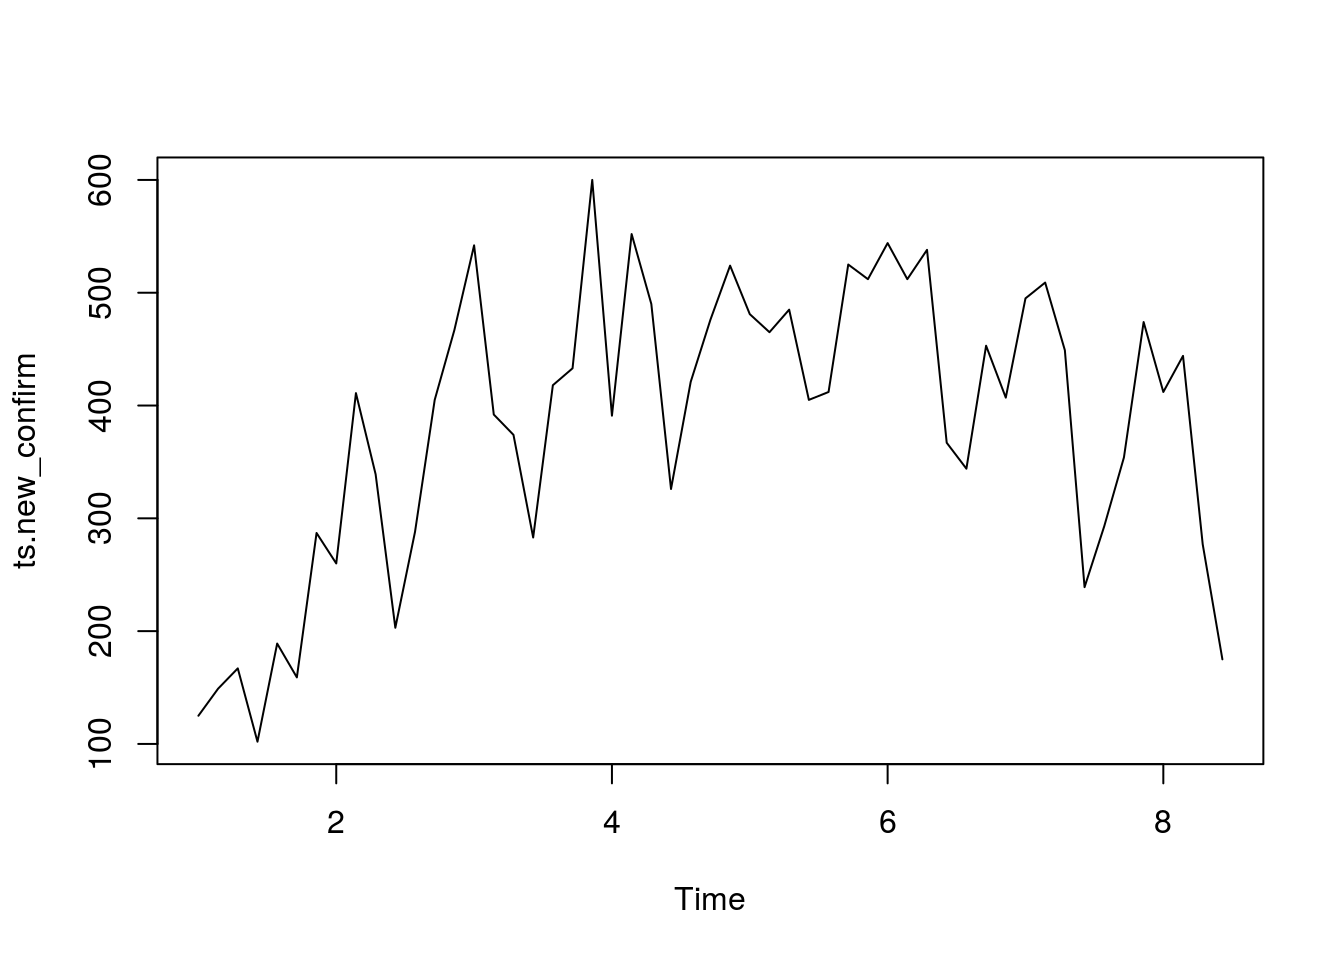
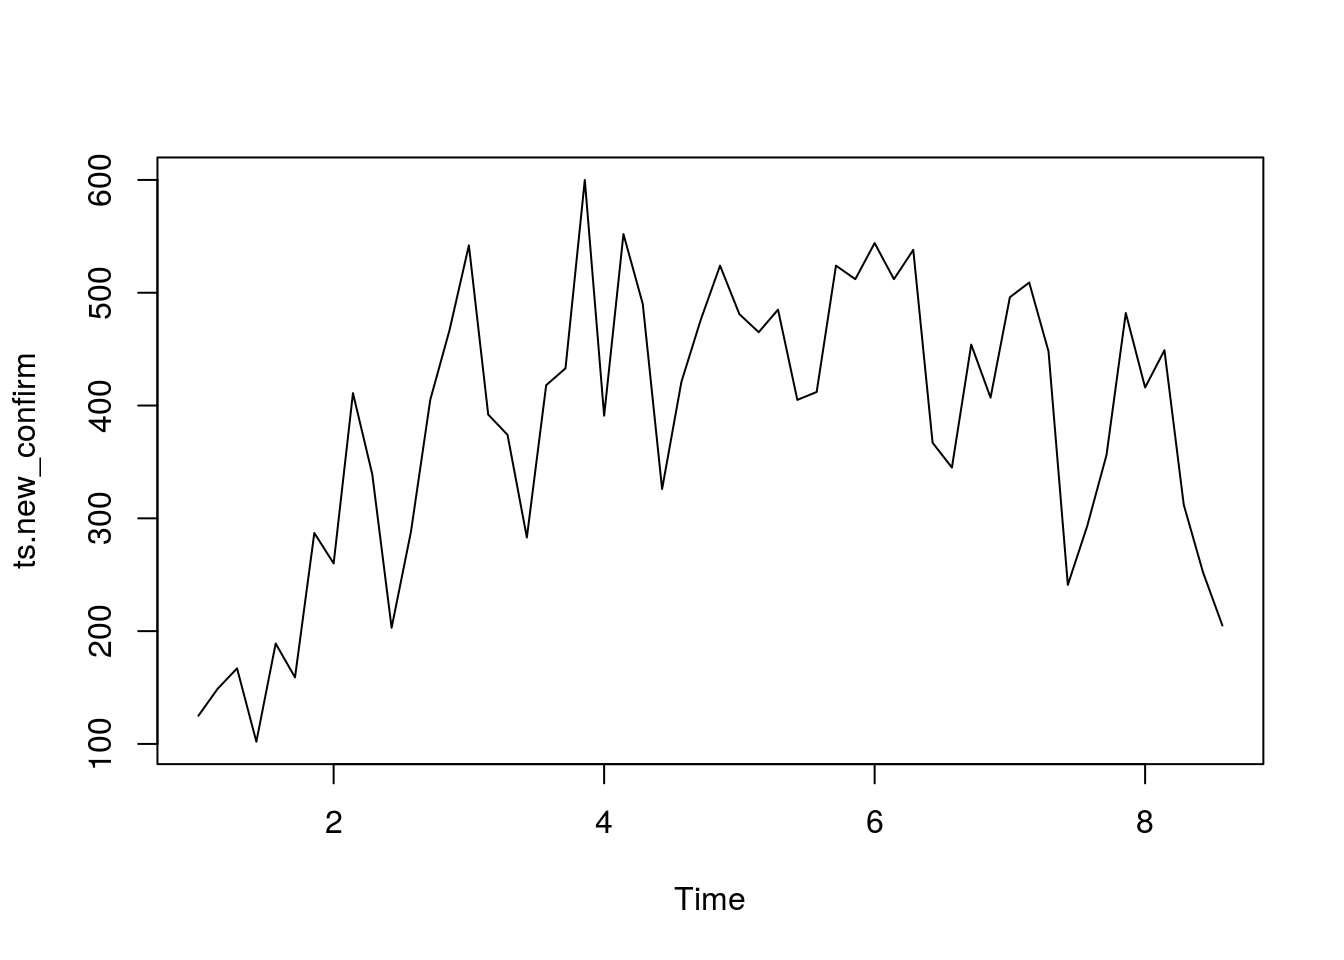
оновлено дані та виправлено одрук в даті випадку в Одеській області

diff --git a/docs/regions_dyn.md b/docs/regions_dyn.md
@@ -51,13 +51,13 @@ area_dyn <- read_csv('../covid19_by_area_type_hosp_dynamics.csv')
     ##   new_recover = col_double()
     ## )
 
-    ## Warning: 82 parsing failures.
+    ## Warning: 86 parsing failures.
     ##  row              col               expected  actual                                        file
-    ## 1381 legal_entity_lat no trailing characters ,604941 '../covid19_by_area_type_hosp_dynamics.csv'
-    ## 1381 legal_entity_lng no trailing characters ,271351 '../covid19_by_area_type_hosp_dynamics.csv'
-    ## 3272 legal_entity_lat no trailing characters ,604941 '../covid19_by_area_type_hosp_dynamics.csv'
-    ## 3272 legal_entity_lng no trailing characters ,271351 '../covid19_by_area_type_hosp_dynamics.csv'
-    ## 5227 legal_entity_lat no trailing characters ,604941 '../covid19_by_area_type_hosp_dynamics.csv'
+    ## 1300 legal_entity_lat no trailing characters ,006038 '../covid19_by_area_type_hosp_dynamics.csv'
+    ## 1300 legal_entity_lng no trailing characters ,655758 '../covid19_by_area_type_hosp_dynamics.csv'
+    ## 1392 legal_entity_lat no trailing characters ,604941 '../covid19_by_area_type_hosp_dynamics.csv'
+    ## 1392 legal_entity_lng no trailing characters ,271351 '../covid19_by_area_type_hosp_dynamics.csv'
+    ## 3283 legal_entity_lat no trailing characters ,604941 '../covid19_by_area_type_hosp_dynamics.csv'
     ## .... ................ ...................... ....... ...........................................
     ## See problems(...) for more details.
 
@@ -70,12 +70,12 @@ head(area_dyn)
     ## # A tibble: 6 x 16
     ##   zvit_date  registration_ar… priority_hosp_a… edrpou_hosp legal_entity_na…
     ##   <date>     <chr>            <chr>            <chr>       <chr>           
-    ## 1 2020-05-24 Вінницька        Вінницька        01982502    КНП ВІННИЦЬКА Ц…
-    ## 2 2020-05-24 Вінницька        Вінницька        01982502    КНП ВІННИЦЬКА Ц…
-    ## 3 2020-05-24 Вінницька        Вінницька        01982502    КНП ВІННИЦЬКА Ц…
-    ## 4 2020-05-24 Вінницька        Вінницька        01982502    КНП ВІННИЦЬКА Ц…
-    ## 5 2020-05-24 Вінницька        Вінницька        01982502    КНП ВІННИЦЬКА Ц…
-    ## 6 2020-05-24 Вінницька        Вінницька        01982502    КНП ВІННИЦЬКА Ц…
+    ## 1 2020-05-25 Вінницька        Вінницька        01982502    КНП ВІННИЦЬКА Ц…
+    ## 2 2020-05-25 Вінницька        Вінницька        01982502    КНП ВІННИЦЬКА Ц…
+    ## 3 2020-05-25 Вінницька        Вінницька        01982502    КНП ВІННИЦЬКА Ц…
+    ## 4 2020-05-25 Вінницька        Вінницька        01982502    КНП ВІННИЦЬКА Ц…
+    ## 5 2020-05-25 Вінницька        Вінницька        01982502    КНП ВІННИЦЬКА Ц…
+    ## 6 2020-05-25 Вінницька        Вінницька        01982502    КНП ВІННИЦЬКА Ц…
     ## # … with 11 more variables: legal_entity_lat <dbl>, legal_entity_lng <dbl>,
     ## #   person_gender <chr>, person_age_group <chr>, add_conditions <chr>,
     ## #   is_medical_worker <chr>, new_susp <dbl>, new_confirm <dbl>,

diff --git a/docs/forecast_prophet.md b/docs/forecast_prophet.md
@@ -52,13 +52,13 @@ df <- read_csv('../covid19_by_area_type_hosp_dynamics.csv')
     ##   new_recover = col_double()
     ## )
 
-    ## Warning: 82 parsing failures.
+    ## Warning: 86 parsing failures.
     ##  row              col               expected  actual                                        file
-    ## 1381 legal_entity_lat no trailing characters ,604941 '../covid19_by_area_type_hosp_dynamics.csv'
-    ## 1381 legal_entity_lng no trailing characters ,271351 '../covid19_by_area_type_hosp_dynamics.csv'
-    ## 3272 legal_entity_lat no trailing characters ,604941 '../covid19_by_area_type_hosp_dynamics.csv'
-    ## 3272 legal_entity_lng no trailing characters ,271351 '../covid19_by_area_type_hosp_dynamics.csv'
-    ## 5227 legal_entity_lat no trailing characters ,604941 '../covid19_by_area_type_hosp_dynamics.csv'
+    ## 1300 legal_entity_lat no trailing characters ,006038 '../covid19_by_area_type_hosp_dynamics.csv'
+    ## 1300 legal_entity_lng no trailing characters ,655758 '../covid19_by_area_type_hosp_dynamics.csv'
+    ## 1392 legal_entity_lat no trailing characters ,604941 '../covid19_by_area_type_hosp_dynamics.csv'
+    ## 1392 legal_entity_lng no trailing characters ,271351 '../covid19_by_area_type_hosp_dynamics.csv'
+    ## 3283 legal_entity_lat no trailing characters ,604941 '../covid19_by_area_type_hosp_dynamics.csv'
     ## .... ................ ...................... ....... ...........................................
     ## See problems(...) for more details.
 
@@ -108,12 +108,12 @@ tail(future)
 ```
 
     ##            ds
-    ## 62 2020-06-02
     ## 63 2020-06-03
     ## 64 2020-06-04
     ## 65 2020-06-05
     ## 66 2020-06-06
     ## 67 2020-06-07
+    ## 68 2020-06-08
 
 As with most modeling procedures in R, we use the generic predict function to get our forecast. The forecast object is a dataframe with a column yhat containing the forecast. It has additional columns for uncertainty intervals and seasonal components.
 
@@ -123,12 +123,12 @@ tail(forecast[c('ds', 'yhat', 'yhat_lower', 'yhat_upper')])
 ```
 
     ##            ds     yhat yhat_lower yhat_upper
-    ## 62 2020-06-02 519.6943   397.8697   638.5647
-    ## 63 2020-06-03 586.2447   462.7451   718.6403
-    ## 64 2020-06-04 537.1718   414.6171   663.9287
-    ## 65 2020-06-05 560.1487   431.8574   680.4517
-    ## 66 2020-06-06 520.7512   398.5957   649.0729
-    ## 67 2020-06-07 393.3554   267.4790   509.1515
+    ## 63 2020-06-03 580.9255   461.2299   701.2187
+    ## 64 2020-06-04 530.7038   411.9131   646.9602
+    ## 65 2020-06-05 553.6721   436.8731   668.1294
+    ## 66 2020-06-06 517.8909   395.9584   646.8016
+    ## 67 2020-06-07 396.1093   267.6974   518.9558
+    ## 68 2020-06-08 445.0832   319.5548   569.9501
 
 You can use the generic plot function to plot the forecast, by passing in the model and the forecast dataframe.
 

diff --git a/docs/forecast_arima.md b/docs/forecast_arima.md
@@ -37,13 +37,13 @@ area_dyn <- read_csv('../covid19_by_area_type_hosp_dynamics.csv')
     ##   new_recover = col_double()
     ## )
 
-    ## Warning: 82 parsing failures.
+    ## Warning: 86 parsing failures.
     ##  row              col               expected  actual                                        file
-    ## 1381 legal_entity_lat no trailing characters ,604941 '../covid19_by_area_type_hosp_dynamics.csv'
-    ## 1381 legal_entity_lng no trailing characters ,271351 '../covid19_by_area_type_hosp_dynamics.csv'
-    ## 3272 legal_entity_lat no trailing characters ,604941 '../covid19_by_area_type_hosp_dynamics.csv'
-    ## 3272 legal_entity_lng no trailing characters ,271351 '../covid19_by_area_type_hosp_dynamics.csv'
-    ## 5227 legal_entity_lat no trailing characters ,604941 '../covid19_by_area_type_hosp_dynamics.csv'
+    ## 1300 legal_entity_lat no trailing characters ,006038 '../covid19_by_area_type_hosp_dynamics.csv'
+    ## 1300 legal_entity_lng no trailing characters ,655758 '../covid19_by_area_type_hosp_dynamics.csv'
+    ## 1392 legal_entity_lat no trailing characters ,604941 '../covid19_by_area_type_hosp_dynamics.csv'
+    ## 1392 legal_entity_lng no trailing characters ,271351 '../covid19_by_area_type_hosp_dynamics.csv'
+    ## 3283 legal_entity_lat no trailing characters ,604941 '../covid19_by_area_type_hosp_dynamics.csv'
     ## .... ................ ...................... ....... ...........................................
     ## See problems(...) for more details.
 

diff --git a/docs/forecast_fable.md b/docs/forecast_fable.md
@@ -56,13 +56,13 @@ area_dyn <- read_csv('../covid19_by_area_type_hosp_dynamics.csv')
     ##   new_recover = col_double()
     ## )
 
-    ## Warning: 82 parsing failures.
+    ## Warning: 86 parsing failures.
     ##  row              col               expected  actual                                        file
-    ## 1381 legal_entity_lat no trailing characters ,604941 '../covid19_by_area_type_hosp_dynamics.csv'
-    ## 1381 legal_entity_lng no trailing characters ,271351 '../covid19_by_area_type_hosp_dynamics.csv'
-    ## 3272 legal_entity_lat no trailing characters ,604941 '../covid19_by_area_type_hosp_dynamics.csv'
-    ## 3272 legal_entity_lng no trailing characters ,271351 '../covid19_by_area_type_hosp_dynamics.csv'
-    ## 5227 legal_entity_lat no trailing characters ,604941 '../covid19_by_area_type_hosp_dynamics.csv'
+    ## 1300 legal_entity_lat no trailing characters ,006038 '../covid19_by_area_type_hosp_dynamics.csv'
+    ## 1300 legal_entity_lng no trailing characters ,655758 '../covid19_by_area_type_hosp_dynamics.csv'
+    ## 1392 legal_entity_lat no trailing characters ,604941 '../covid19_by_area_type_hosp_dynamics.csv'
+    ## 1392 legal_entity_lng no trailing characters ,271351 '../covid19_by_area_type_hosp_dynamics.csv'
+    ## 3283 legal_entity_lat no trailing characters ,604941 '../covid19_by_area_type_hosp_dynamics.csv'
     ## .... ................ ...................... ....... ...........................................
     ## See problems(...) for more details.
 

diff --git a/docs/histograms.md b/docs/histograms.md
@@ -35,13 +35,13 @@ area_dyn <- read_csv('../covid19_by_area_type_hosp_dynamics.csv')
     ##   new_recover = col_double()
     ## )
 
-    ## Warning: 82 parsing failures.
+    ## Warning: 86 parsing failures.
     ##  row              col               expected  actual                                        file
-    ## 1381 legal_entity_lat no trailing characters ,604941 '../covid19_by_area_type_hosp_dynamics.csv'
-    ## 1381 legal_entity_lng no trailing characters ,271351 '../covid19_by_area_type_hosp_dynamics.csv'
-    ## 3272 legal_entity_lat no trailing characters ,604941 '../covid19_by_area_type_hosp_dynamics.csv'
-    ## 3272 legal_entity_lng no trailing characters ,271351 '../covid19_by_area_type_hosp_dynamics.csv'
-    ## 5227 legal_entity_lat no trailing characters ,604941 '../covid19_by_area_type_hosp_dynamics.csv'
+    ## 1300 legal_entity_lat no trailing characters ,006038 '../covid19_by_area_type_hosp_dynamics.csv'
+    ## 1300 legal_entity_lng no trailing characters ,655758 '../covid19_by_area_type_hosp_dynamics.csv'
+    ## 1392 legal_entity_lat no trailing characters ,604941 '../covid19_by_area_type_hosp_dynamics.csv'
+    ## 1392 legal_entity_lng no trailing characters ,271351 '../covid19_by_area_type_hosp_dynamics.csv'
+    ## 3283 legal_entity_lat no trailing characters ,604941 '../covid19_by_area_type_hosp_dynamics.csv'
     ## .... ................ ...................... ....... ...........................................
     ## See problems(...) for more details.
 
